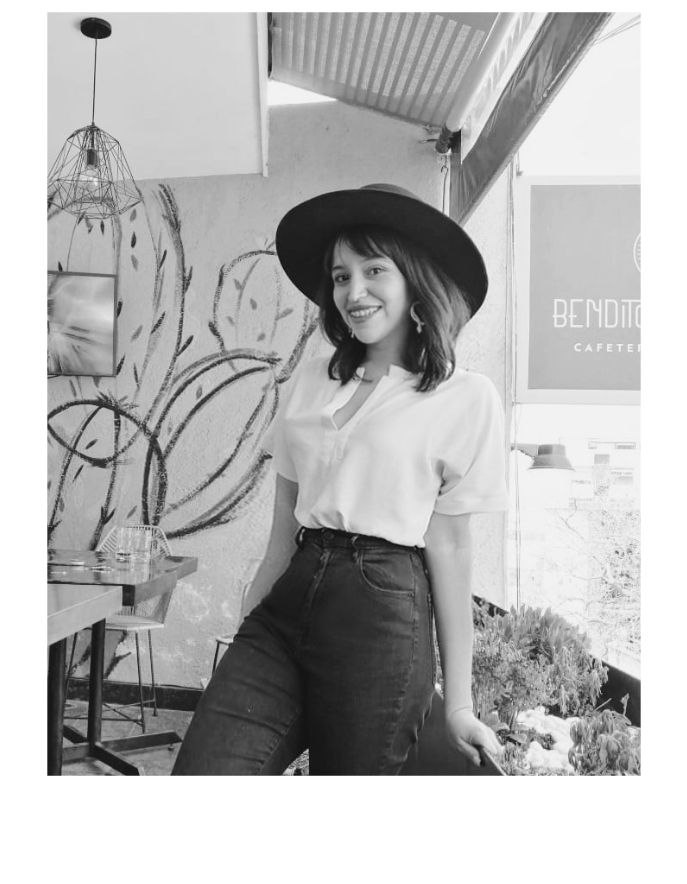
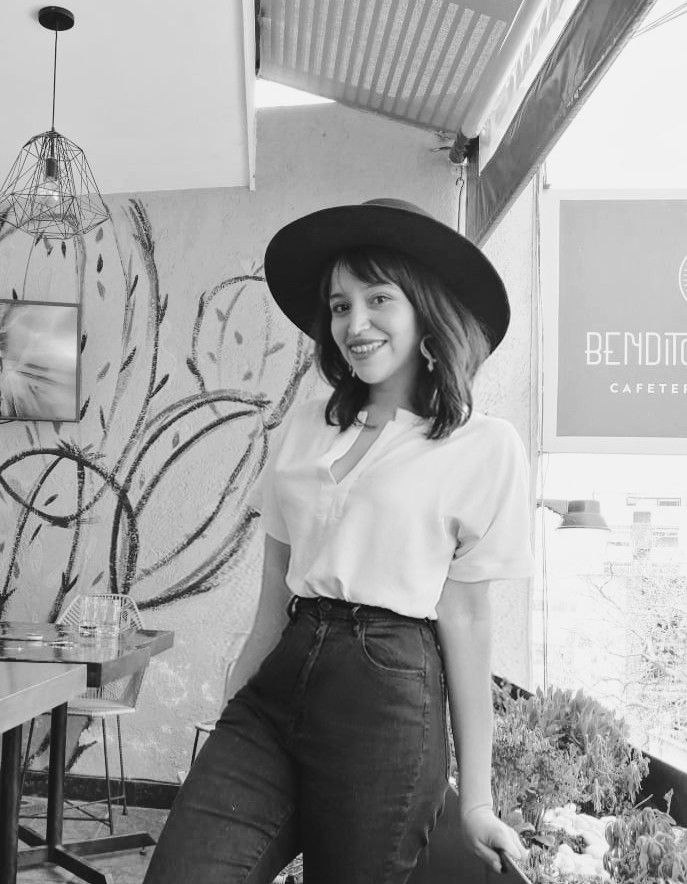
styled the profile image and did a console for set info about me

diff --git a/src/components/AboutRight/index.js b/src/components/AboutRight/index.js
@@ -1,10 +1,26 @@
 import React from 'react';
 import styles from './style.module.css';
+import { FontAwesomeIcon } from '@fortawesome/react-fontawesome';
+import { faCircle } from '@fortawesome/free-solid-svg-icons'
+
 
 const AboutRight = () => (
 
     <div className={styles.parent}>
-        
+        <div className={styles.console}>
+            <div className={styles.header}>
+                <div className={styles.circlesContainer}>
+                <FontAwesomeIcon icon ={faCircle} className={styles.redCircle}/>
+                <FontAwesomeIcon icon ={faCircle} className={styles.yellowCircle}/>
+                <FontAwesomeIcon icon ={faCircle} className={styles.greenCircle}/>
+                </div>
+            </div>
+            <div className={styles.body}>
+                <p> Hi my name is Ana. I enjoy beautiful and functional web design.
+Among my main technical skills are HTML / CSS / JS / UX/ Responsive Design / Photoshop.
+ </p>
+            </div>
+        </div>
     </div>
 
 );

diff --git a/src/components/AboutRight/style.module.css b/src/components/AboutRight/style.module.css
@@ -11,6 +11,53 @@ body > div{
 }
 
 .parent{
-    width: 50%;
+    width: 60%;
     height: 100%;
+    display: flex;
+    align-items: center;
+}
+
+.console{
+    width: 90%;
+    height: 40%;
+    background-color: #181A1B;
+    border:3px solid #d1d1d1;
+
+}
+
+.header{
+    width: 100%;
+    height: 12%;
+    background-color: #0c0f11;
+    border:1px solid #d1d1d1;
+}
+
+.circlesContainer{
+    width: 15%;
+    height: 100%;
+    display: flex;
+    justify-content: center;
+    align-items: center;
+    align-content: center;
+}
+
+.redCircle, .yellowCircle, .greenCircle{
+    font-size: 12px;
+    color:red;
+    padding: 3px;
+}
+
+.yellowCircle{
+    color: rgb(236, 182, 2);
+}
+
+.greenCircle{
+    color:green
+}
+
+p{
+    font-family: 'Roboto-Mono',serif;
+    font-size: 20px;
+    padding: 15px;
+    color: rgb(236, 182, 2);
 }

diff --git a/src/components/AboutLeft/style.module.css b/src/components/AboutLeft/style.module.css
@@ -11,14 +11,23 @@ body > div{
 }
 
 .parent{
-    width: 50%;
+    width: 45%;
     height: 100%;
     display: flex;
     justify-content: center;
     align-items: center;
+    align-content: center;
 }
 
-
+.photoContainer{
+    width: 400px;
+    height: 500px;
+    background-color: rgb(236, 182, 2);
+    display: flex;
+    justify-content: center;
+    align-items: center;
+    align-content: center;
+}
 
 .profileAna{
     width:343px;

diff --git a/src/index.css b/src/index.css
@@ -12,6 +12,14 @@
   font-style: normal;
 }
 
+@font-face {
+  font-family: 'Roboto-Mono';
+  src: url('./fonts/RobotoMono-VariableFont_wght.woff') format('woff');
+  font-weight: 400;
+  font-style: regular;
+}
+
+
 body {
   margin: 0;
 }
